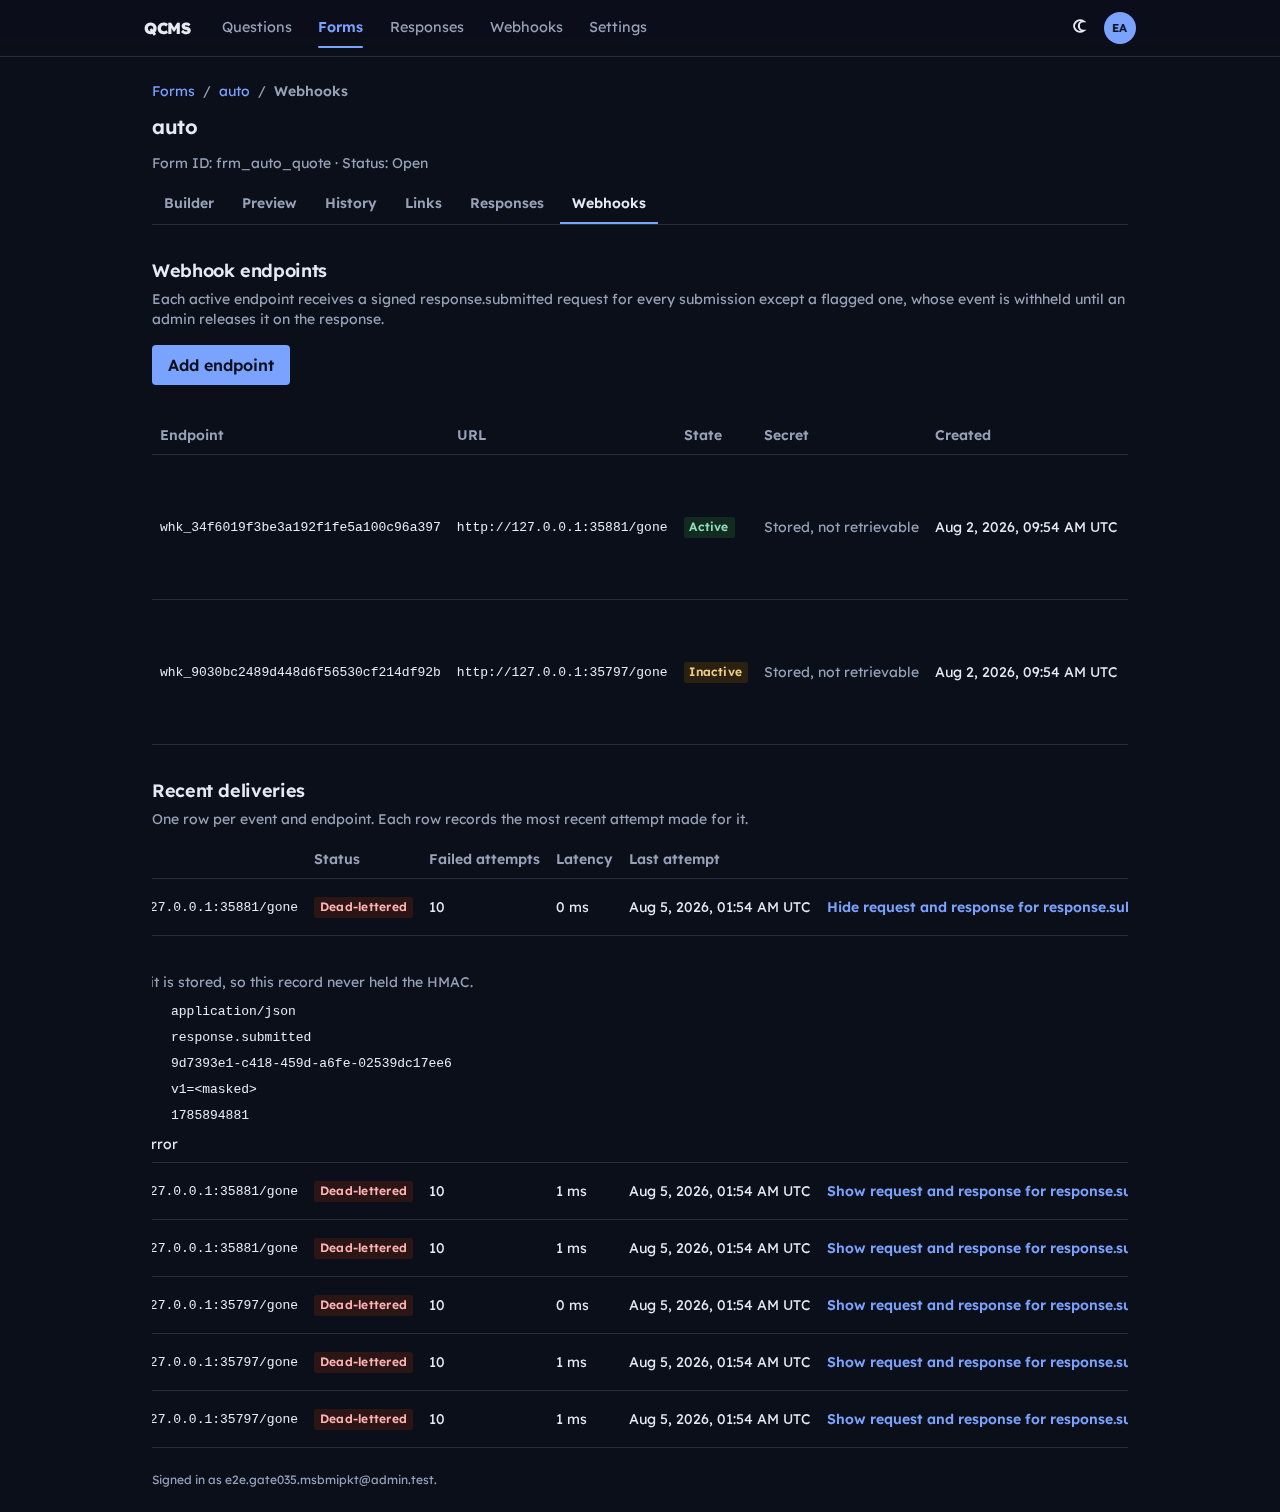
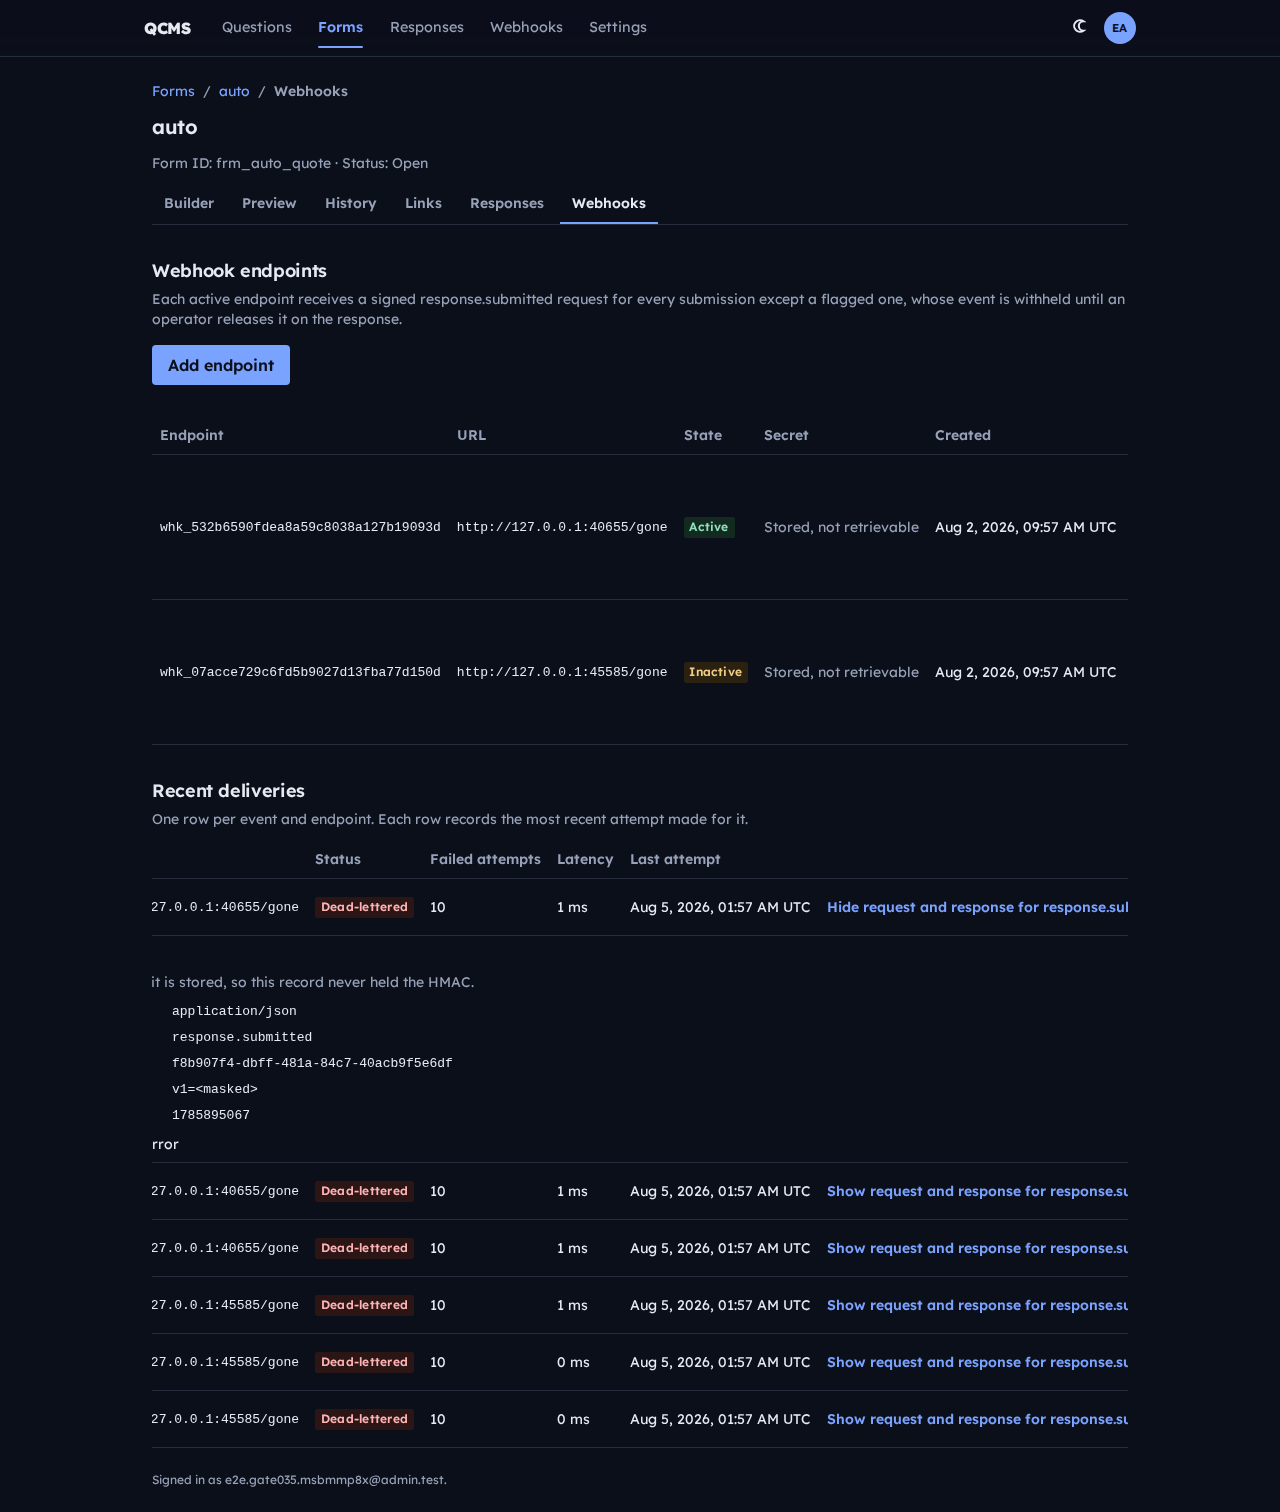
fix(admin): 035 say operator, not admin, in the corrected webhook intro
scripts/check-admin-theme.mjs fails any user-facing string that names this app
"admin", and the corrected sentence did. Operator is the vocabulary the rest of
the catalog already uses. Both assertions and the 24 frames follow it.

diff --git a/apps/admin/lib/i18n/en.ts b/apps/admin/lib/i18n/en.ts
@@ -930,10 +930,12 @@ export const messages = {
   // "except a flagged one" is not a hedge, it is what the submit slice does:
   // `apps/api/src/features/responses/submit/handler.ts` enqueues `response.submitted`
   // only when `flaggedReason === undefined`, and the release door is the unflag action
-  // on the response detail (`ops.detail.unflag`). The earlier wording promised "every
-  // submission", which this task's own unflag flow disproves.
+  // on the response detail (`ops.detail.unflag`). "Operator" rather than "admin":
+  // `scripts/check-admin-theme.mjs` fails any user-facing string naming this app that,
+  // and operator is the vocabulary the rest of the catalog uses. The earlier wording
+  // promised "every submission", which this task's own unflag flow disproves.
   "ops.webhooks.intro":
-    "Each active endpoint receives a signed response.submitted request for every submission except a flagged one, whose event is withheld until an admin releases it on the response.",
+    "Each active endpoint receives a signed response.submitted request for every submission except a flagged one, whose event is withheld until an operator releases it on the response.",
   "ops.webhooks.add": "Add endpoint",
   "ops.webhooks.addTitle": "Add a webhook endpoint",
   "ops.webhooks.url": "Endpoint URL",

diff --git a/apps/admin/e2e/responses-ops.pw.ts b/apps/admin/e2e/responses-ops.pw.ts
@@ -280,7 +280,7 @@ test.describe("admin operations: responses, erasure, webhooks", () => {
       // intro promising "every submission" would be a sentence the same diff disproves.
       // Asserted rather than reviewed, because that copy shipped once already.
       await expect(page.getByTestId("qcms-webhook-config")).toContainText(
-        "withheld until an admin releases it",
+        "withheld until an operator releases it",
       );
       const broken = await deadUrl();
       await page.getByRole("button", { name: "Add endpoint" }).click();

diff --git a/apps/admin/e2e/gate-screenshots-035.pw.ts b/apps/admin/e2e/gate-screenshots-035.pw.ts
@@ -157,7 +157,7 @@ for (const mode of CAPTURE_MODES) {
       // submission" while the submit slice withholds a flagged one - so the capture now
       // refuses to photograph the screen unless the corrected sentence is on it.
       await expect(page.getByTestId("qcms-webhook-config")).toContainText(
-        "withheld until an admin releases it",
+        "withheld until an operator releases it",
       );
       await capture(page, `${mode}-webhooks-none`);
 
